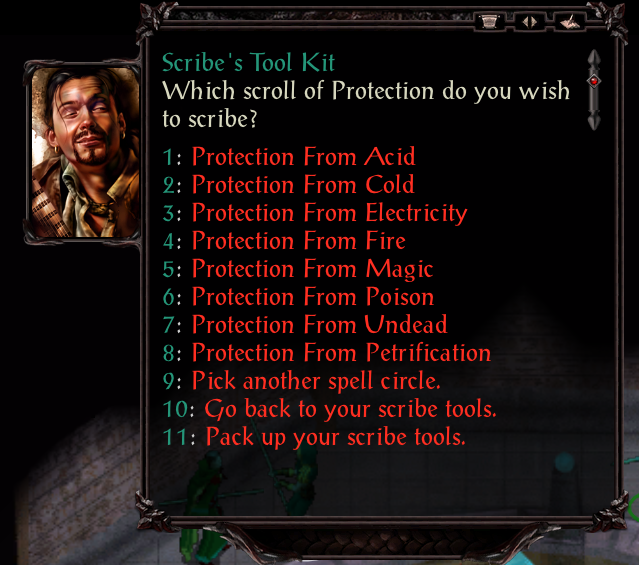
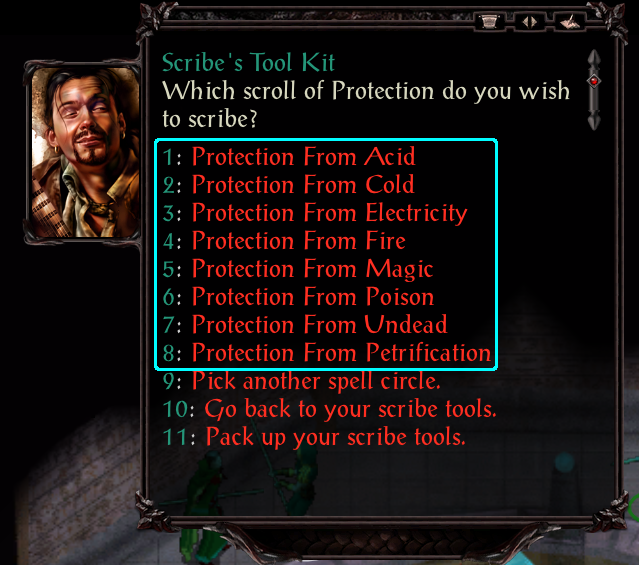
Fix Protection crafting menu (#36)
* Update the output table comment

* Correct comment

* Use the spell name in menu to match prompt

* fix names to use hyphens

* Whitespace

* Re-work protection scroll menu generation

* Isolate the States into their own APPEND dialog compilation action

* Re-name the main menu state

* Bumping version

* Preserve the DEBUG dialogs even upon failure

* Bugfix dialog confition

* Fewer .D operations

* Another missed conditional close

* fix comment

* Fix early-closed string

* Link to not enough gold

* Remove unnecessary block

* END my states

* fix variable reference

* I think having these as states was unnecessary (and unlinked); fixing...

* Highlighting

* Add the exit/navigate options to the protection/spell state

* Use the correct prompt for confirmation state

* Add in a missing navigation option

Changed region(s): [[0.2379, 0.2407, 0.8028, 0.6619]]

diff --git a/mod-caster-crafting/readme-caster-crafting.md b/mod-caster-crafting/readme-caster-crafting.md
@@ -8,7 +8,7 @@
 
 
 # Basic Mod Info
-Version: 0.7.3
+Version: 0.7.4
 
 Author: [Bardez](https://github.com/BardezAnAvatar)
 
@@ -110,6 +110,7 @@ I am using the `BZ` prefix for my items.  It is registered at [Black Wyrm Lair](
 | Making leveled scrolls component fully craftable            |  0.7.1  |
 | Expanding craftable leveled scrolls to BG2, IWD             |  0.7.2  |
 | Splitting out shared BAMs into Arcane and Priest variants   |  0.7.3  |
+| Fixing Protection scroll crafting dialog                    |  0.7.4  |
 
 ## Dedication
 This mod is dedicated to my wife, Shannon, and to my daughters Evelyn, Madelyn, and Elliana. These are my support in my daily life.
